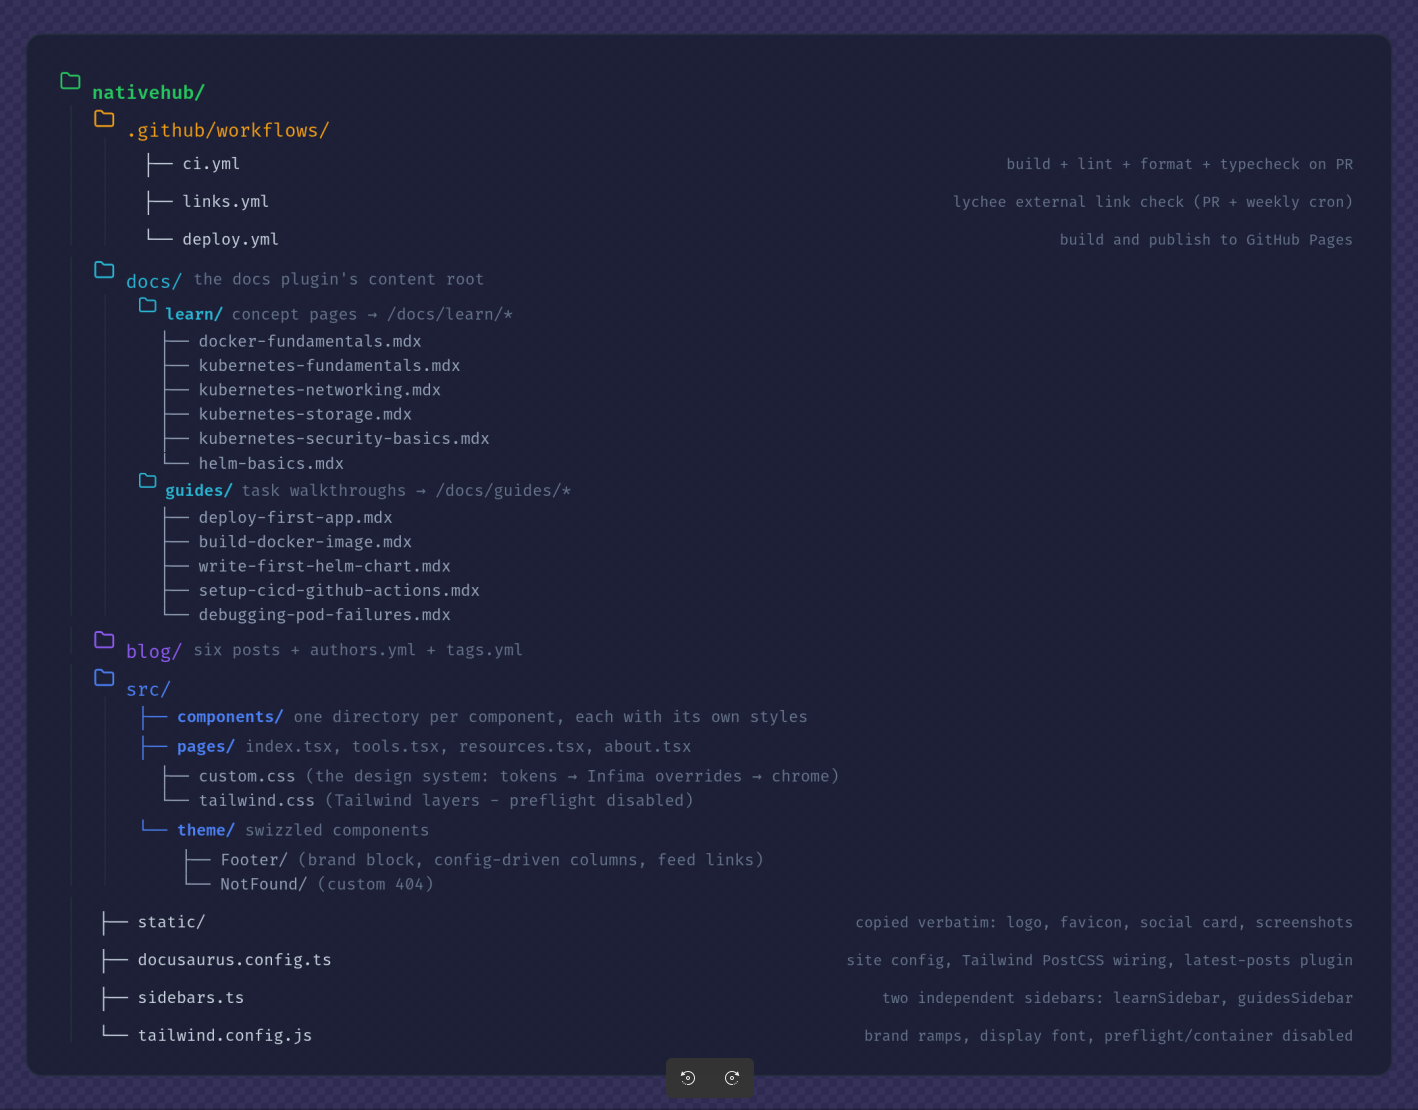
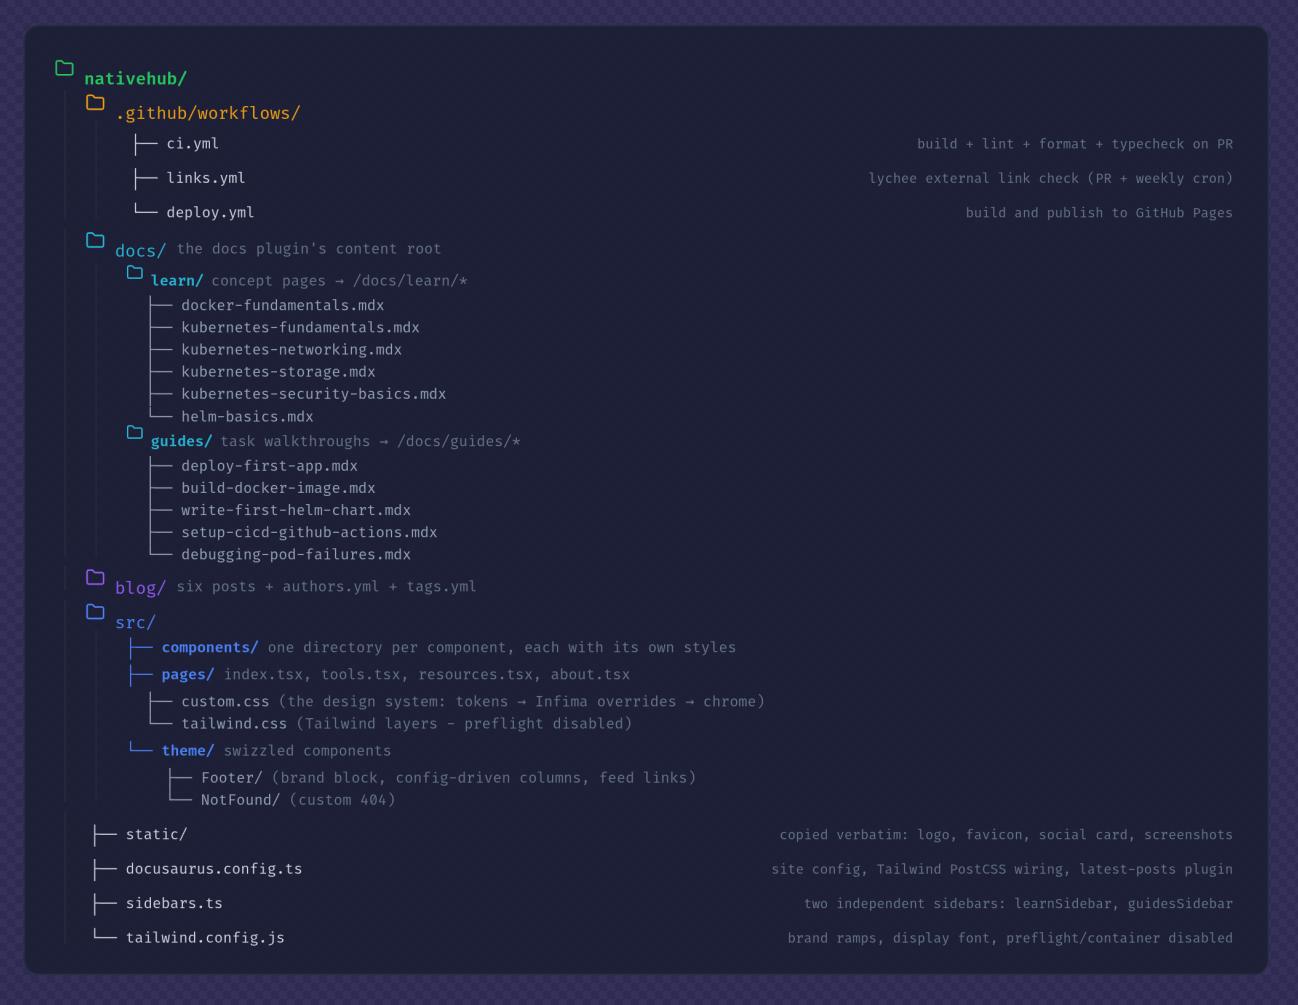
docs: update architecture diagram

diff --git a/src/pages/about.tsx b/src/pages/about.tsx
@@ -101,7 +101,7 @@ export default function About(): ReactNode {
                 </li>
                 <li>
                   <strong>Want to add a page?</strong>{' '}
-                  <Link to="https://github.com/mdryaan/nativehub/blob/main/CONTRIBUTING.md">
+                  <Link to="https://github.com/mdryaaan/nativehub/blob/main/CONTRIBUTING.md">
                     CONTRIBUTING.md
                   </Link>{' '}
                   covers the local setup, file conventions, and the PR checklist.
@@ -141,7 +141,7 @@ export default function About(): ReactNode {
               </p>
               <Link
                 className="button button--primary button--block"
-                to="https://github.com/mdryaan"
+                to="https://github.com/mdryaaan"
               >
                 GitHub profile
               </Link>

diff --git a/src/theme/NotFound/index.tsx b/src/theme/NotFound/index.tsx
@@ -75,7 +75,7 @@ export default function NotFound(): ReactNode {
 
               <p className={styles.report}>
                 Think this link should work?{' '}
-                <Link to="https://github.com/mdryaan/nativehub/issues/new">Open an issue</Link>{' '}
+                <Link to="https://github.com/mdryaaan/nativehub/issues/new">Open an issue</Link>{' '}
                 and it will get fixed.
               </p>
             </div>

diff --git a/src/pages/index.tsx b/src/pages/index.tsx
@@ -305,7 +305,7 @@ function Newsletter(): ReactNode {
             </a>
             <Link
               className="button button--secondary button--lg"
-              to="https://github.com/mdryaan/nativehub"
+              to="https://github.com/mdryaaan/nativehub"
             >
               Star on GitHub
             </Link>

diff --git a/docusaurus.config.ts b/docusaurus.config.ts
@@ -91,7 +91,7 @@ async function latestPostsPlugin(context: LoadContext): Promise<Plugin> {
   };
 }
 
-const organizationName = 'mdryaan';
+const organizationName = 'mdryaaan';
 const projectName = 'nativehub';
 const editUrlBase = `https://github.com/${organizationName}/${projectName}/tree/main/`;
 

diff --git a/README.md b/README.md
@@ -10,8 +10,8 @@ A production-quality documentation and learning hub for Kubernetes, containers, 
 that runs them. Concepts explained properly, guides you can follow end to end, and commands that
 actually work.
 
-[![CI](https://github.com/mdryaan/nativehub/actions/workflows/ci.yml/badge.svg)](https://github.com/mdryaan/nativehub/actions/workflows/ci.yml)
-[![Link check](https://github.com/mdryaan/nativehub/actions/workflows/links.yml/badge.svg)](https://github.com/mdryaan/nativehub/actions/workflows/links.yml)
+[![CI](https://github.com/mdryaaan/nativehub/actions/workflows/ci.yml/badge.svg)](https://github.com/mdryaaan/nativehub/actions/workflows/ci.yml)
+[![Link check](https://github.com/mdryaaan/nativehub/actions/workflows/links.yml/badge.svg)](https://github.com/mdryaaan/nativehub/actions/workflows/links.yml)
 [![License: MIT](https://img.shields.io/badge/license-MIT-0e8f80.svg)](./LICENSE)
 [![Docusaurus](https://img.shields.io/badge/Docusaurus-3.10-0e8f80.svg?logo=docusaurus&logoColor=white)](https://docusaurus.io/)
 [![Node](https://img.shields.io/badge/node-%3E%3D20-0e8f80.svg?logo=node.js&logoColor=white)](https://nodejs.org/)
@@ -118,7 +118,7 @@ other edits.
 **Requirements:** Node.js 20+ (CI uses 22) and npm 10+.
 
 ```bash
-git clone https://github.com/mdryaan/nativehub.git
+git clone https://github.com/mdryaaan/nativehub.git
 cd nativehub
 
 npm install

diff --git a/CONTRIBUTING.md b/CONTRIBUTING.md
@@ -17,7 +17,7 @@ is only useful if it is right, and being wrong in public is only useful if it ge
 **Requirements:** Node.js 20 or newer (22 is what CI uses) and npm 10+.
 
 ```bash
-git clone https://github.com/mdryaan/nativehub.git
+git clone https://github.com/mdryaaan/nativehub.git
 cd nativehub
 npm install
 npm run start
@@ -121,7 +121,7 @@ there is nothing to maintain by hand.
    ---
    slug: kubernetes-jobs-in-practice
    title: Kubernetes Jobs in practice
-   authors: [mdryaan]
+   authors: [mdryaaan]
    tags: [kubernetes, fundamentals]
    date: 2026-08-01
    description: One or two sentences. Used for the meta description and the homepage card.
